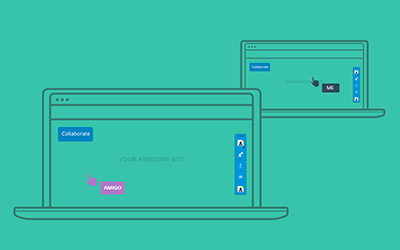
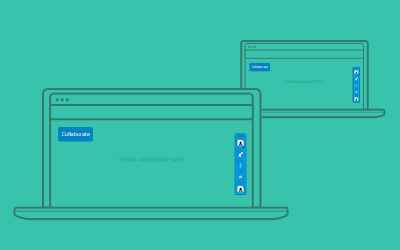
updating the retina images

diff --git a/site/js/custom.js b/site/js/custom.js
@@ -5,12 +5,12 @@
         $("img.swap1")
              .mouseover(function() { 
                  $(this).fadeIn("slow", function(){
-                   var src = $(this).attr("src").match(/[^\.]+/) + "-overlay@2x.png";
+                   var src = $(this).attr("src").match(/[^\.]+/) + "-overlay.png";
                    $(this).attr("src", src);
                  });
              })
              .mouseout(function() {
-                 var src = $(this).attr("src").replace("-overlay@2x.png", ".png");
+                 var src = $(this).attr("src").replace("-overlay.png", ".png");
                  $(this).attr("src", src);
              });
         

diff --git a/site/js/imageresizer.js b/site/js/imageresizer.js
@@ -1,7 +1,7 @@
-// check for retina
-if (window.devicePixelRatio > 1){
-  $("img.retina-ready").each(function(i, img){
-    // images/thing.png -> images/thing-retina.png
-    img.src = img.src.split(".").join("-retina.");
-  });
-}
+// check for retina - NOT IN USE
+// if (window.devicePixelRatio > 1){
+//   $("img.retina-ready").each(function(i, img){
+//     // images/thing.png -> images/thing-retina.png
+//     img.src = img.src.split(".").join("-retina.");
+//   });
+// }

diff --git a/site/index.html b/site/index.html
@@ -26,7 +26,7 @@
             </p>
           </div>
           <div class="col-md-7" id="video-area">
-            <img src="images/site-hero-image-01.png" class="swap1 img-responsive">
+            <img src="images/site-hero-image-01.png" class="swap1 img-responsive"
           </div>
         </div>
       </div>

diff --git a/site/css/style.css b/site/css/style.css
@@ -248,11 +248,11 @@ h4 {
 
 #video-area {
   padding-bottom: 0px;
-  //background: rgba(0,0,0,0.5);
+  cursor: pointer;
 }
 
-#video-area {
-  cursor: pointer;
+#video-area img {
+  width: 100%;
 }
 
 
